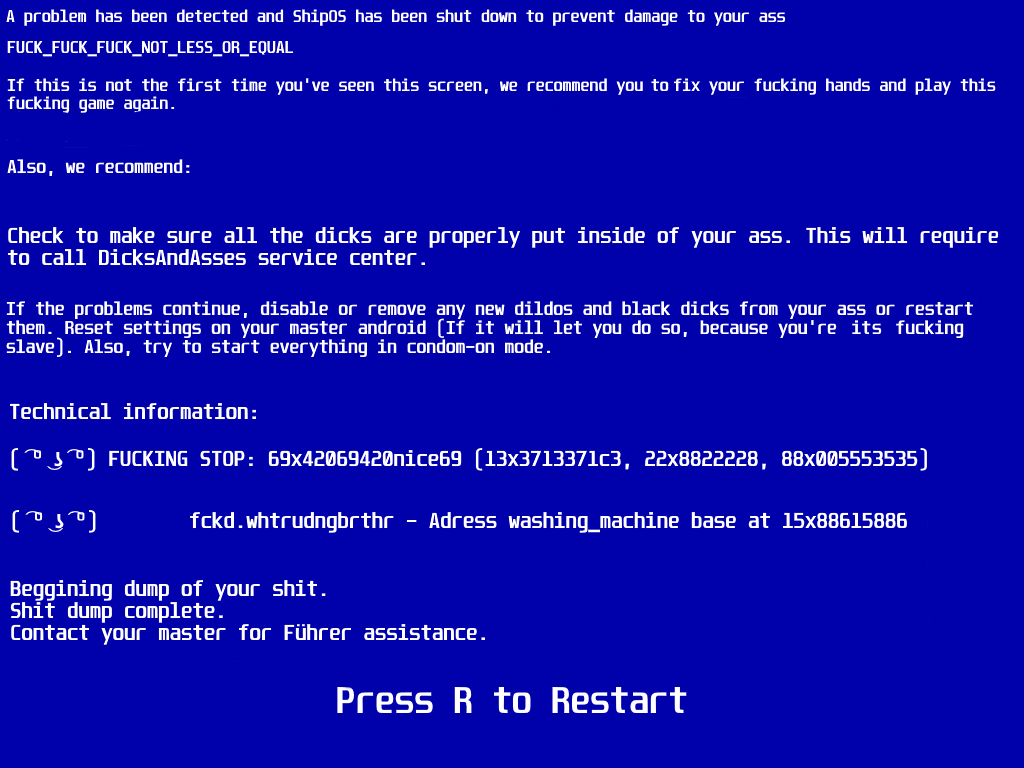
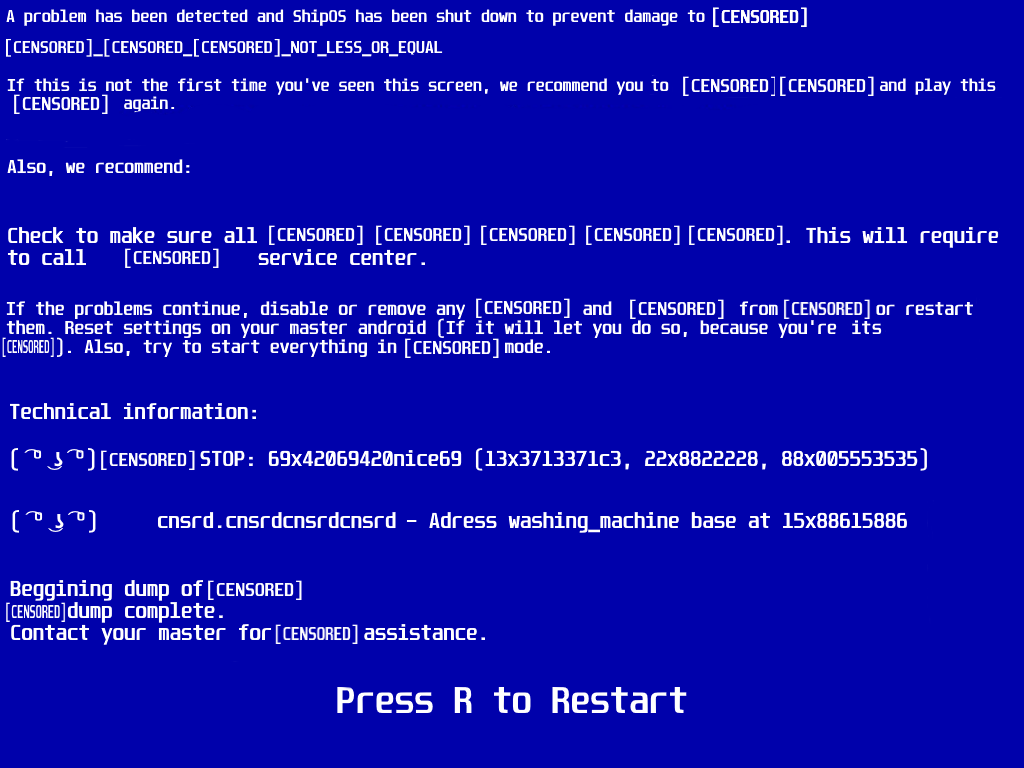
Censored stuff that had to be censored
China is good. China is life. China will help us.

diff --git a/main.py b/main.py
@@ -562,7 +562,7 @@ def menu(choise, variants, confirmation, settings_choise, settings_variants):
         def draw_image(image, x, y):
             window.blit(image, (x, y))
 
-        # Draw choise arrow if no menu vartian is active
+        # Draw choise arrow if no menu vartiant is active
         if not draw_controls and not draw_settings and not show_credits:
             draw_image(menu_image, 0, 0)
             draw_image(arrow_image, arrow_x, arrow_y)
@@ -1097,7 +1097,6 @@ def main():
                     hole_y = ship.y + 8
 
                 window.blit(hole_image[3], (hole_x, hole_y))
-                #window.blit(hole_image[3], (hole_x, hole_y - 86))
 
                 if ship.jump_direction == 1:
                     window.blit(hole_image[3], (hole_x, hole_y - 86))
@@ -1117,7 +1116,6 @@ def main():
                     hole_y = ship.y
 
                 window.blit(hole_image[4], (hole_x, hole_y))
-                #window.blit(hole_image[4], (hole_x, hole_y - 86))
 
                 if ship.jump_direction == 1:
                     window.blit(hole_image[4], (hole_x, hole_y - 86))
@@ -1239,7 +1237,7 @@ def main():
                                                                                               bomber_reticles[i].y))
                                 missiles[i].exp_count += 4
 
-                    # Explosion type 3 and A FUCKING PIECE OF CROCODILE SHIT THAT COMMITED SEVERAL WARCRIMES AGAINST MY FUCKING SANITY!!!
+                    # Explosion type 3
                     elif bomber.attack_type == 3:
                         if not missiles[i].launched and not missiles[i].exploded and bomber_reticles[i].shot:
                             if missiles[i].exp_count + 4 >= fps:
@@ -1320,12 +1318,6 @@ def main():
 
                 # Boss explosion
                 if not boss.alive and not boss.exploded:
-                    #if boss.exp_count + 5 >= fps:
-                    #    boss.exp_count = 0
-                    ##    boss.exploded = True
-                    ##else:
-                    ##    window.blit(bomber_explosion_large_images[boss.exp_count // 10], (boss.x - 64,boss.y - 64))
-                    #    boss.exp_count += 4w
 
                     for i in range(len(boss_explosions)):
                         # Determines if explosion should happen
@@ -1384,7 +1376,6 @@ def main():
                 egg_counter += 1
             # Credits
             if show_credits:
-                #window.blit(menu_background_image, (0, 0))
                 credits(credits_x, credits_y, endgame_cutscene)
 
         pygame.display.update()
@@ -1884,7 +1875,7 @@ def main():
                                             damage_upgrade[ii].drop(aliens_tier1[i], 4, 4)
                                             break
 
-                    # Collision with ship (The fuck? I was able to break those lines all that time?)
+                    # Collision with ship (The hell? I was able to break those lines all that time?)
                     if ship.x <= aliens_tier1[i].x <= ship.x + 56 \
                             and ship.y <= aliens_tier1[i].y <= ship.y + 64 \
                             and ship.alive and not ship.blinking and not ship.jumping:
@@ -1920,7 +1911,7 @@ def main():
                             aliens_tier2_last_y = max(aliens_tier2_y_lst)
                     aliens_tier2[i].rebuild(aliens_tier2_last_y)
 
-                    # KAMIKAZEEE (Collision of ship with tier 2 aliens)!!!
+                    # Collision of ship with tier 2 aliens
                     if (aliens_tier2[i].x <= ship.x <= aliens_tier2[i].x + 64
                         or aliens_tier2[i].x <= ship.x + 64 <= aliens_tier2[i].x + 64) \
                             and (aliens_tier2[i].y <= ship.y <= aliens_tier2[i].y + 64
@@ -2276,7 +2267,7 @@ def main():
                     if boss.x < projectile[i].x < boss.x + 512 \
                     and boss.y < projectile[i].y < boss.y + 289 and projectile[i].fired:
                         
-                        # 500 IQ hitbox system
+                        # Hitbox system
                         if projectile[i].y < (projectile[i].x - boss.x) * ((projectile[i].x - boss.x) / projectile[i].y) + 235 and projectile[i].x < boss.x + 225:
                             if boss.health >= 1:
                                 if boss.health < 5000:
@@ -2497,7 +2488,7 @@ def main():
                         or (rand_num_start == 1 and rand_num_end == 1):
                         boss.attack_type = 0
                         boss.salvo_finished = False
-                        boss_missiles_amount = 5 # FUCK YOU FUCKING DOT!!! JUST FUCK YOU! I SPENT LIKE THREE DAYS ON TRYING TO FIX A BUG ONLY TO DISCOVER THAT IT WAS BECAUSE OF A DOT! It was boss.missiles_amount = 5
+                        boss_missiles_amount = 5
                         boss.shoots = False
 
                         for i in range(5):
@@ -2550,7 +2541,6 @@ def main():
             # Moving the player
             if (not ship.y < -70 and egg_list == [] and boss.exploded) or (ship.y < -10 and boss.exploded and not egg_list == []):
                 ship.put_in_position((width // 2) - 32, -100)
-                #show_credits = False
                 if not endgame_cutscene:
                     if not egg_list == []:
                         egg_list[0].image = pygame.transform.rotate(egg_list[0].image, -135.00)
@@ -2567,7 +2557,7 @@ def main():
         # Egg counter
         if egg_counter >= 35:
             end_everything = True
-            run = False # THERE IS NO WAY TO RUN FROM EGG! IT WILL FIND YOU...
+            run = False
 
         # Clearing dead tier 1 enemies
         for i in range(aliens_tier1_len):
